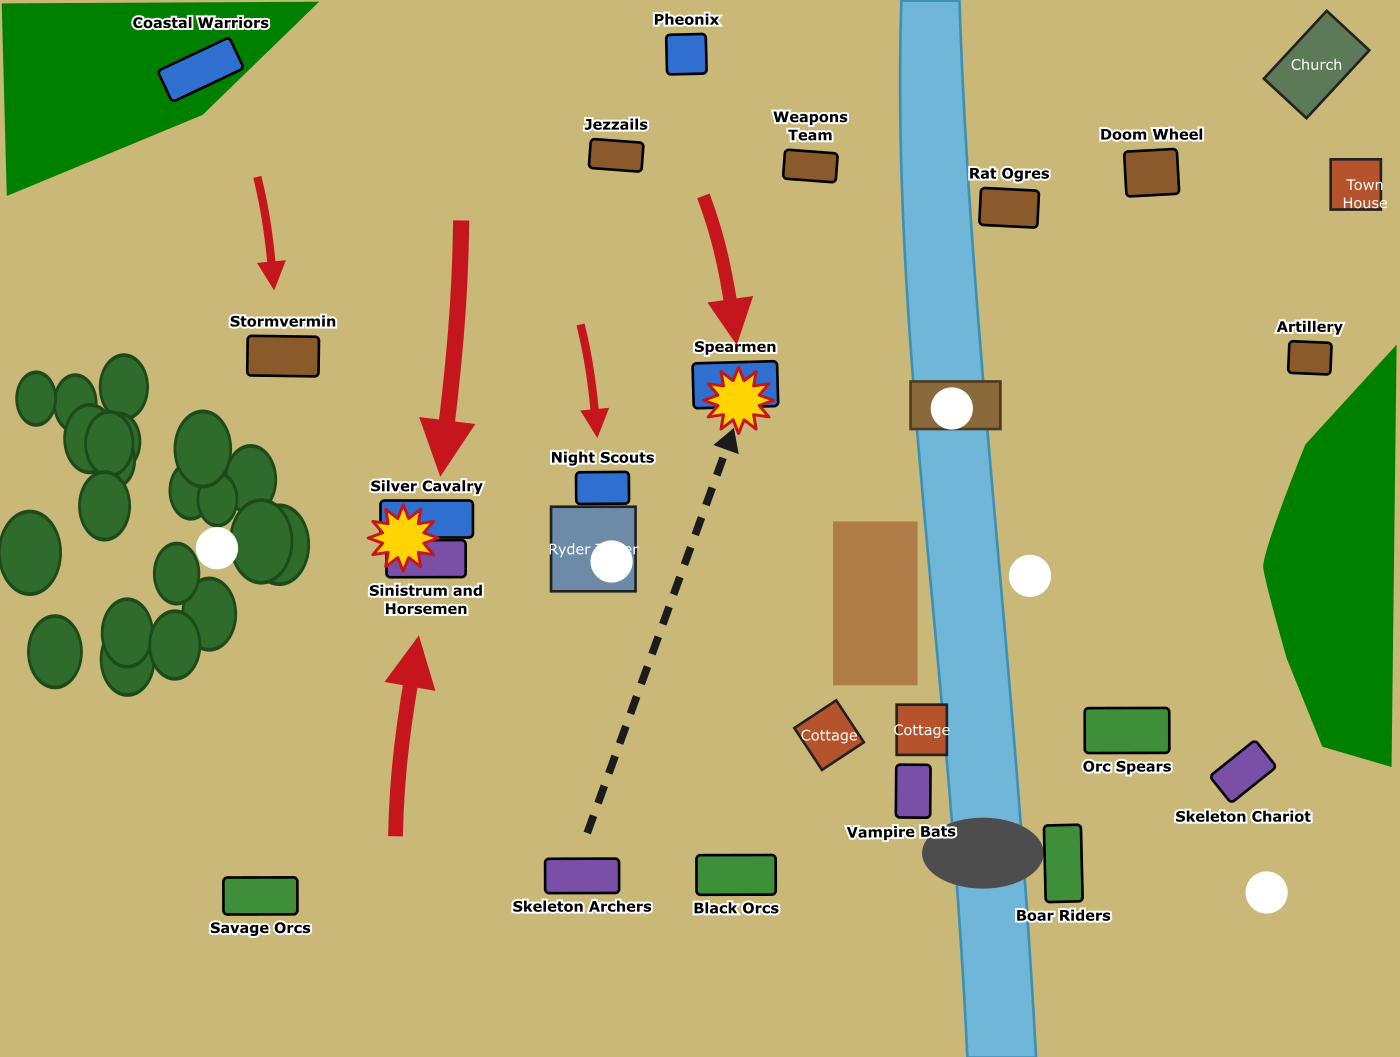
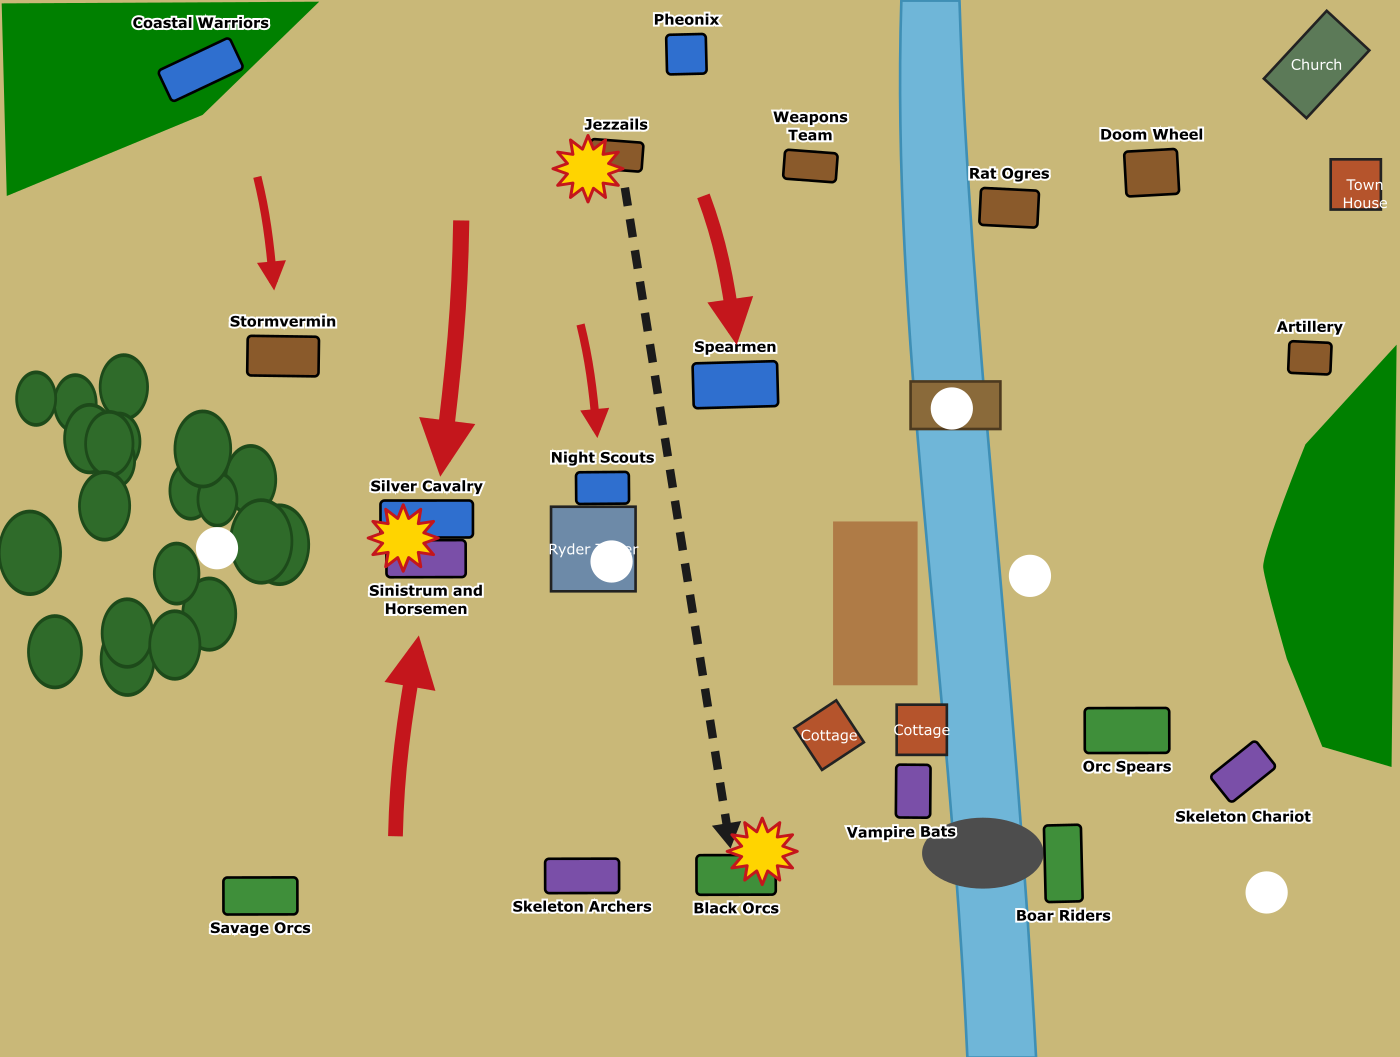
fixed map

diff --git a/reports/battle-01/index.html b/reports/battle-01/index.html
@@ -18,11 +18,11 @@
         <h2>Background</h2>
         <p class="intro">Although the High Elves sailed for Ulthuan millennia ago, they still maintain outposts in the
           Old World to protect the geomantic waystones that help slow the spread of Chaos.</p>
-        <p class="intro">Skaven Clan Leader Horgan eyed one such outpost as a valuable prize. Uunder cover of darkess,
-          he launched a vicious surprise attack from the neighbouring forest. However, little did he realise that
-          through necromantic interrogation, the ancient liche Sinistrum had learned of the his plans. Sinistrum and his
-          close ally Warboss Jed were lying in ambush, waiting for the two sides to exhaust themselves before taking the
-          prize as their own.</p>
+        <p class="intro">Skaven Clan Leader Horgan eyed one such outpost as a valuable prize. Under cover of darkess, he
+          launched a vicious surprise attack from the neighbouring forest. However, little did he realise that through
+          necromantic interrogation, the ancient liche Sinistrum had learned of the his plans. Sinistrum and his close
+          ally Warboss Jed were lying in ambush, waiting for the two sides to exhaust themselves before taking the prize
+          as their own.</p>
         <p class="intro">Spotting the danger just in time, High Elf Lord Ryder and Horgan realised that their survival
           depended on their fighting side by side, at least for now.</p>
         <img src="images/battle-01.jpg" alt="The battlefield at the start of the game">
